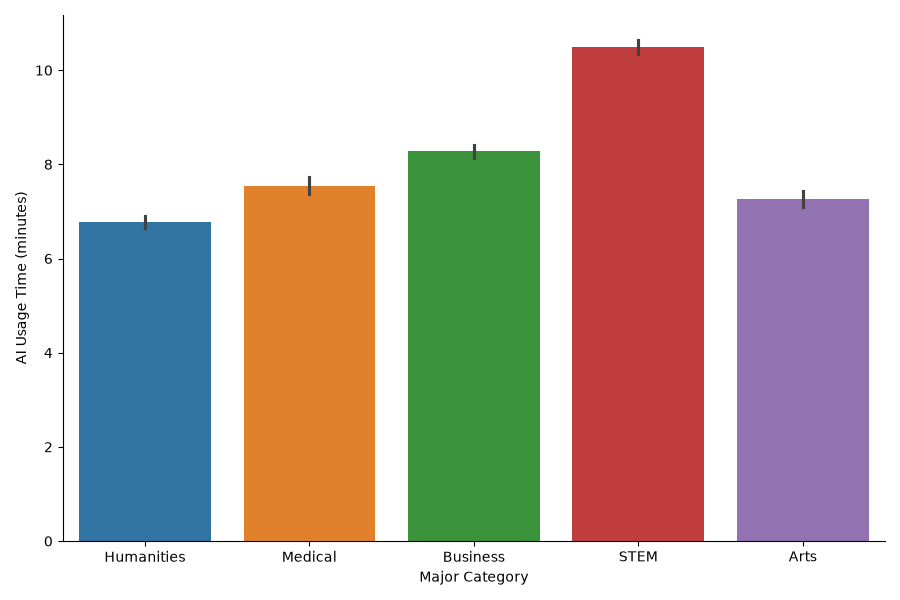
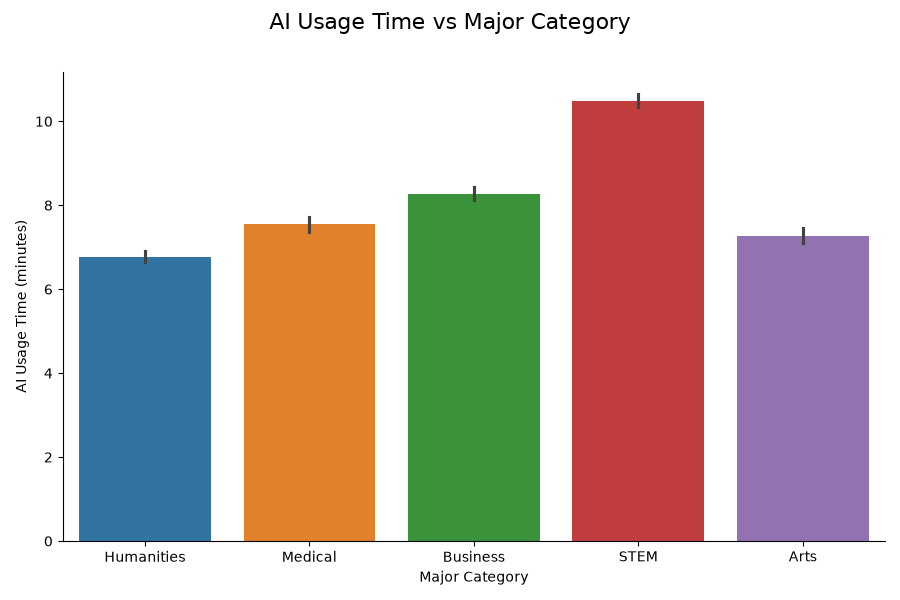
Updated the EDA and Question 2 files to follow method as well as created tests for EDA and Question 2. Both files also follow flake8 formatting. The graphs have been updated to include titles and the test files have been added to the repository.

diff --git a/Question 2.py b/Question 2.py
@@ -2,9 +2,11 @@ import matplotlib.pyplot as plt
 import pandas as pd
 import seaborn as sns
 
+
 DATASET_1 = 'ai_impact_student_performance_dataset.csv'
 DATASET_2 = 'ai_student_impact_dataset (1).csv'
 DATASET_3 = 'final dataset.csv'
+
 
 def get_data(dataset) -> pd.DataFrame:
     if dataset == 1:
@@ -14,13 +16,18 @@ def get_data(dataset) -> pd.DataFrame:
     elif dataset == 3:
         data = pd.read_csv(DATASET_3, encoding='utf-8')
     else:
-        raise ValueError("Invalid dataset number. Please choose 1, 2, or 3.")
+        raise ValueError(
+            "Invalid dataset number. Please choose 1, 2, or 3."
+        )
     return data
+
 
 def summarize_numerical(data: pd.DataFrame, column: str) -> list:
     if column not in data.columns:
-        raise ValueError(f"Column '{column}' does not exist in the dataset.")
-    
+        raise ValueError(
+            f"Column '{column}' does not exist in the dataset."
+        )
+
     mean = float(round(data[column].mean(), 2))
     median = float(round(data[column].median(), 2))
     std_dev = float(round(data[column].std(), 2))
@@ -29,54 +36,155 @@ def summarize_numerical(data: pd.DataFrame, column: str) -> list:
     min_value = float(round(data[column].min(), 2))
     max_value = float(round(data[column].max(), 2))
 
-    return [mean, std_dev, min_value, first_quartile, median, third_quartile, max_value]
+    return [
+        mean,
+        std_dev,
+        min_value,
+        first_quartile,
+        median,
+        third_quartile,
+        max_value
+    ]
+
+
+def test_summarize_numerical( file_path: str, column: str,
+                             expected_summary: list
+                             ):
+    data = pd.read_csv(file_path)
+    assert summarize_numerical(data, column) == expected_summary
+
 
 def summarize_categorical(data: pd.DataFrame, column: str) -> list:
     values = []
+
     if column not in data.columns:
-        raise ValueError(f"Column '{column}' does not exist in the dataset.")
-    
+        raise ValueError(
+            f"Column '{column}' does not exist in the dataset."
+        )
+
     for value in data[column].dropna().unique():
         count = data[data[column] == value].shape[0]
         values.append((str(value), count))
+
     return values
+
+
+def test_summarize_categorical(file_path: str, column: str, 
+                               expected_summary: list
+                               ):
+    data = pd.read_csv(file_path)
+    assert summarize_categorical(data, column) == expected_summary
+
 
 def main():
     data = [get_data(1), get_data(2), get_data(3)]
-    numerical_columns = ['attendance_percentage', 'study_consistency_index',
-                         'sleep_hours', 'social_media_hours', 
-                         'class_participation_score', 'ai_usage_time_minutes'
-                         'Traditional_Study_Hours', 'Anxiety_Level_During_Exams',
-                         'Weekly_GenAI_Hours']
-    categorical_columns = ['Major_Category', 'Institutional_Policy', 'Burnout_Risk_Level',
-                           'Q1', 'Q2', 'Q7', 'Q33', 'Q38', 'Q39', 'Q18a', 'Q18b', 'Q18c', 
-                           'Q18d', 'Q18e', 'Q18f', 'Q18g', 'Q18h', 'Q18i', 'Q18j']
+
+    numerical_columns = [
+        'attendance_percentage',
+        'study_consistency_index',
+        'sleep_hours',
+        'social_media_hours',
+        'class_participation_score',
+        'ai_usage_time_minutes',
+        'Traditional_Study_Hours',
+        'Anxiety_Level_During_Exams',
+        'Weekly_GenAI_Hours'
+    ]
+
+    categorical_columns = [
+        'Major_Category',
+        'Institutional_Policy',
+        'Burnout_Risk_Level',
+        'gender'
+    ]
+
     for i in numerical_columns:
         for j in data:
             if i in j.columns:
                 print(f"Summary statistics for " + i + ":")
                 print(str(summarize_numerical(j, i)))
+
     for i in categorical_columns:
         for j in data:
             if i in j.columns:
                 print(f"Summary statistics for " + i + ":")
                 print(str(summarize_categorical(j, i)))
 
-
-    graph_1 = sns.catplot(x='Major_Category', y='Weekly_GenAI_Hours', data=data[1], kind='bar', hue='Major_Category', height=6, aspect=1.5)
-    graph_1.set_titles('AI Usage Time vs Study Consistency Index')
+    graph_1 = sns.catplot(
+        x='Major_Category',
+        y='Weekly_GenAI_Hours',
+        data=data[1],
+        kind='bar',
+        hue='Major_Category',
+        height=6,
+        aspect=1.5
+    )
+    graph_1.fig.subplots_adjust(top=0.88)
+    graph_1.fig.suptitle('AI Usage Time vs Major Category', fontsize=16)
     graph_1.set_xlabels('Major Category')
     graph_1.set_ylabels('AI Usage Time (minutes)')
     graph_1.figure.savefig('ai_usage_vs_major.png')
 
-    
-    plt.tight_layout()
-    graph_2 = sns.catplot(x='social_media_hours', y='ai_generated_content_percentage', data=data[0], height=6, aspect=1.5, kind = 'box')
-    graph_2.set_titles('AI Usage Time vs Social Media Hours')
+    graph_2 = sns.catplot(
+        x='social_media_hours',
+        y='ai_generated_content_percentage',
+        data=data[0],
+        height=6,
+        aspect=1.5,
+        kind='box'
+    )
+    graph_2.fig.subplots_adjust(top=0.88)
+    graph_2.fig.suptitle(
+    'AI-Generated Content vs Social Media Hours',
+    fontsize=16
+    )
     graph_2.set_xlabels('Social Media Hours')
     graph_2.set_ylabels('AI Generated Content Percentage')
     graph_2.set_xticklabels(rotation=90)
     graph_2.figure.savefig('ai_usage_vs_social_media.png')
+
+    test_summarize_numerical(
+        'test_mixed_data.csv',
+        'Age',
+        [
+            28.38,
+            7.17,
+            19.0,
+            23.5,
+            27.5,
+            32.0,
+            41.0
+        ]
+    )
+
+    test_summarize_categorical(
+        'test_mixed_data.csv',
+        'Major',
+        [
+            ('Engineering', 2),
+            ('Biology', 2),
+            ('History', 2),
+            ('Business', 1),
+            ('Computer Science', 1)
+        ]
+    )
+
+    test_summarize_numerical(
+        'test_mixed_data_20x5.csv',
+        'Weekly_Study_Hours',
+        [14.0, 5.68, 5.0, 9.75, 13.5, 18.25, 25.0]
+    )
+
+    test_summarize_categorical(
+        'test_mixed_data_20x5.csv',
+        'Study_Preference',
+        [
+            ('Group', 7),
+            ('Independent', 7),
+            ('Tutoring', 6)
+        ]
+    )
+
 
 if __name__ == "__main__":
     main()

diff --git a/EDA.py b/EDA.py
@@ -3,9 +3,11 @@ from typing import Tuple
 import matplotlib.pyplot as plt
 import pandas as pd
 
+
 DATASET_1 = 'ai_impact_student_performance_dataset.csv'
 DATASET_2 = 'ai_student_impact_dataset (1).csv'
 DATASET_3 = 'final dataset.csv'
+
 
 def get_data(dataset) -> pd.DataFrame:
     if dataset == 1:
@@ -15,7 +17,9 @@ def get_data(dataset) -> pd.DataFrame:
     elif dataset == 3:
         data = pd.read_csv(DATASET_3, encoding='utf-8')
     else:
-        raise ValueError("Invalid dataset number. Please choose 1, 2, or 3.")
+        raise ValueError(
+            "Invalid dataset number. Please choose 1, 2, or 3."
+        )
     return data
 
 
@@ -23,13 +27,34 @@ def get_size(data: pd.DataFrame) -> Tuple[int, int]:
     return data.shape
 
 
+def test_get_size(file_path: str, expected_shape: Tuple[int, int]):
+    data = pd.read_csv(file_path)
+    assert get_size(data) == expected_shape
+
+
 def contains_NaN(data: pd.DataFrame) -> bool:
     return data.isnull().values.any()
+
+
+def test_contains_NaN(file_path: str, expected_result: bool):
+    data = pd.read_csv(file_path)
+    assert contains_NaN(data) == expected_result
+
 
 def percentage_of_NaN(data: pd.DataFrame) -> float:
     total_cells = data.size
     total_missing = data.isnull().sum().sum()
     return (total_missing / total_cells) * 100
+
+
+def test_percentage_of_NaN(
+    file_path: str,
+    expected_percentage: float
+):
+    data = pd.read_csv(file_path)
+    assert (
+        abs(percentage_of_NaN(data) - expected_percentage) < 1e-2
+    )
 
 
 def main():
@@ -41,8 +66,18 @@ def main():
         print(f"Dataset {dataset_number}:")
         print(f"Size: {size}")
         print(f"Contains NaN values: {has_nan}")
-        print(f"Percentage of NaN values: {percentage_of_NaN(data):.2f}%")
+        print(
+            f"Percentage of NaN values: "
+            f"{percentage_of_NaN(data):.2f}%"
+        )
         print("-" * 30)
+
+    test_get_size('test_mixed_data.csv', (10, 5))
+    test_get_size('test_mixed_data_20x5.csv', (20, 5))
+    test_contains_NaN('test_mixed_data.csv', True)
+    test_contains_NaN('test_mixed_data_20x5.csv', False)
+    test_percentage_of_NaN('test_mixed_data.csv', 18.0)
+    test_percentage_of_NaN('test_mixed_data_20x5.csv', 0.0)
 
 
 if __name__ == "__main__":
